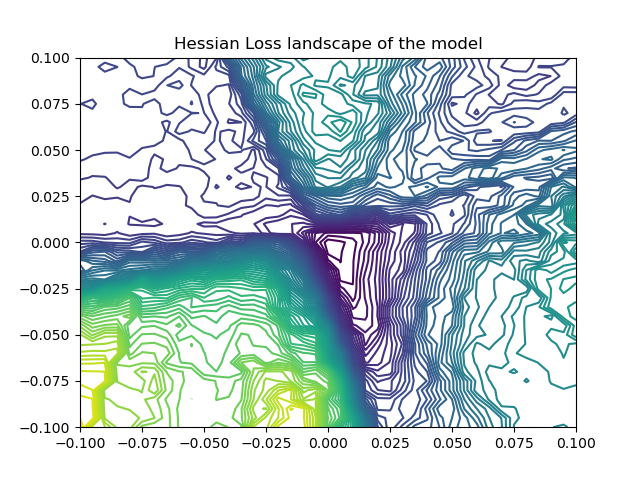
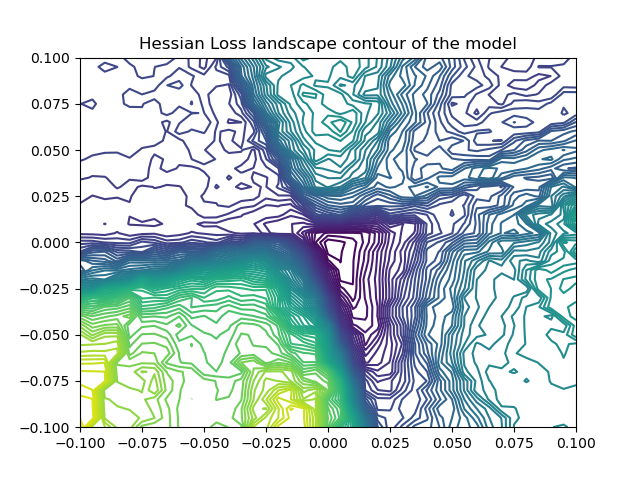
add loss contour 3D surface views

Changed region(s): [[0.2188, 0.0625, 0.8125, 0.125]]

diff --git a/examples/hgcal_autoencoder/train_cpu.py b/examples/hgcal_autoencoder/train_cpu.py
@@ -23,6 +23,7 @@ import datetime
 import numpy as np
 from tqdm import tqdm
 import matplotlib
+from matplotlib import cm
 import matplotlib.pyplot as plt
 
 from telescope_pt import telescopeMSE8x8
@@ -398,6 +399,11 @@ def main(args):
             data_matrix[j] = loss.item()
             # print("Loss value: ", data_matrix[j])
         
+
+        ###############################################################################
+        # Save the loss values and plot the loss landscape
+        ###############################################################################
+
         # save the loss values
         np.save('loss_landscapes/' + str(args.experiment_name) + '_hessian_loss_landscape.npy', data_matrix)
         
@@ -406,21 +412,31 @@ def main(args):
         Z = data_matrix.reshape(STEPS, STEPS)
         fig, ax = plt.subplots()
         ax.contour(X, Y, Z, levels=80)
-        plt.title('Hessian Loss landscape of the model')
+        plt.title('Hessian Loss landscape contour of the model')
         plt.savefig('loss_landscapes/' + str(args.experiment_name) + '_hessian_loss_landscape.png')
 
-        ###############################################################################
-        # Calculate the random loss
-        ###############################################################################
-
-        # for inputs in train_loader:
-        #     break
-        # outputs = model(inputs)
-        # metric = Loss(criterion, inputs, outputs)
-        # directions = random_n_dirctions_pinn(model, metric, dim=2, distance=10, steps=10, normalization='model', deepcopy_model=True)
-        # print("Directions: ", directions)
-
-
+        # plot the 2D loss values in 3D
+        fig = plt.figure()
+        ax = plt.axes(projection='3d')
+        X = np.array([[j for j in range(STEPS)] for i in range(STEPS)])
+        Y = np.array([[i for _ in range(STEPS)] for i in range(STEPS)])
+        data_matrix_reshape = data_matrix.reshape(STEPS, STEPS)
+        ax.plot_surface(X, Y, data_matrix_reshape, rstride=1, cstride=1, cmap='viridis', edgecolor='none')
+        
+        cset = ax.contourf(X, Y, data_matrix_reshape, zdir='z', offset=3, cmap=cm.coolwarm)
+        cset = ax.contourf(X, Y, data_matrix_reshape, zdir='x', offset=40, cmap=cm.coolwarm)
+        cset = ax.contourf(X, Y, data_matrix_reshape, zdir='y', offset=0, cmap=cm.coolwarm)
+        
+        ax.set_xlabel('X')
+        ax.set_xlim(0, STEPS)
+        ax.set_ylabel('Y')
+        ax.set_ylim(0, STEPS)
+        ax.set_zlabel('loss_data_fin')
+        ax.set_zlim(min(data_matrix), max(data_matrix))
+        ax.set_title('Hessian Loss landscape surface of the model')
+        
+        # save plot to file and show
+        plt.savefig('loss_landscapes/' + str(args.experiment_name) + '_hessian_loss_landscape_surface.png')
 
 if __name__ == "__main__":
     parser = ArgumentParser()
